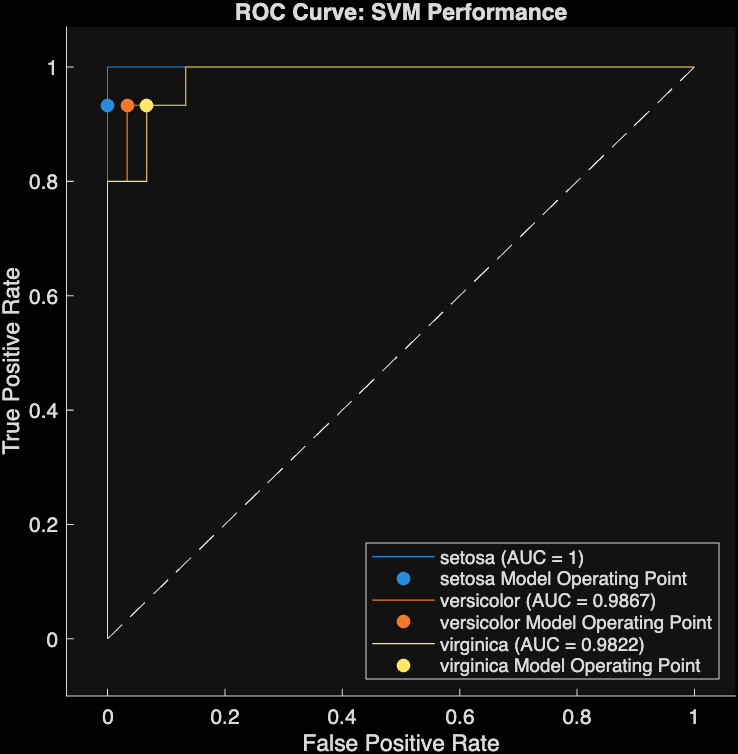
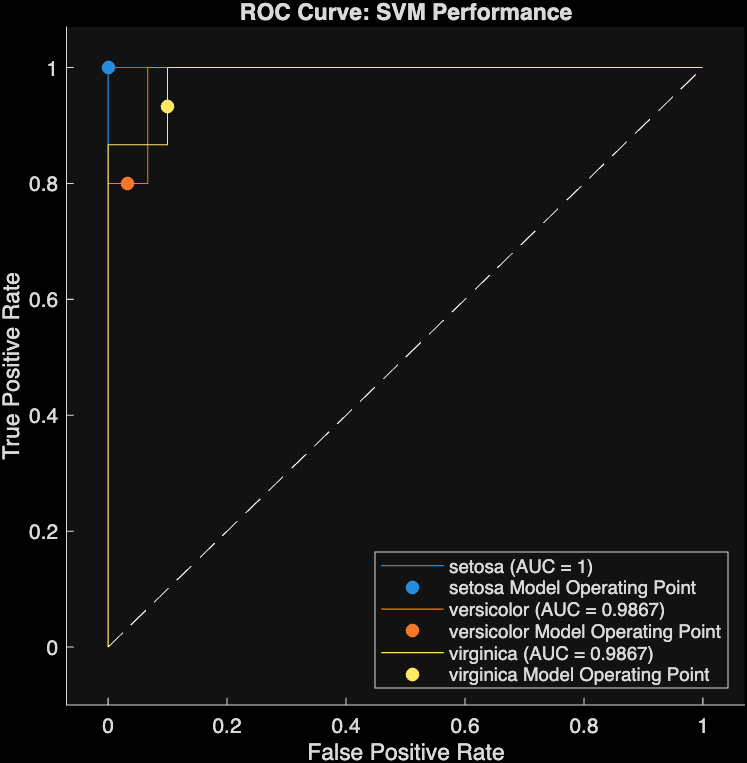
New results added and documentation updated

diff --git a/README.md b/README.md
@@ -10,6 +10,7 @@ The project trains and evaluates the following classification algorithms:
 *   **Support Vector Machine (SVM)**
 *   **k-Nearest Neighbors (kNN)**
 *   **Neural Network**
+*   **Interactive Prediction**
 
 ## Evaluation Metrics & Visualizations
 
@@ -56,14 +57,17 @@ The script will execute, and you will see output in the Command Window regarding
 Matlab-ML-project/
 ├── main.m                % Main script to run the classification and analysis
 └── README.md             % Project description and instructions
+└── Graph of ROC Curve
+└── Graph of Confusion Matrix
+└── Graph of Model Accuracy
 ```
 
 ## Results
 
 Upon running `main.m`, you will observe:
 
-*   A bar chart comparing the accuracy of all four models.
-*   Individual confusion matrix plots for Decision Tree, SVM, kNN, and Neural Network.
+*   A bar chart comparing the accuracy of all five models.
+*   Individual confusion matrix plots for Decision Tree, SVM, kNN, Neural Network and Interactive Prediction.
 *   ROC curves for each model, illustrating their performance across different classification thresholds.
 
 ## Results & Visualizations
@@ -79,13 +83,10 @@ Upon running `main.m`, you will observe:
 
 
 ## Contributing
-
 Feel free to fork this repository, make improvements, and submit pull requests. Any suggestions or enhancements are welcome!
 
 ## License
-
 This project is open-source and available under the MIT License.
 
 ## Contact
-
 For any questions or feedback, please open an issue in this repository.
